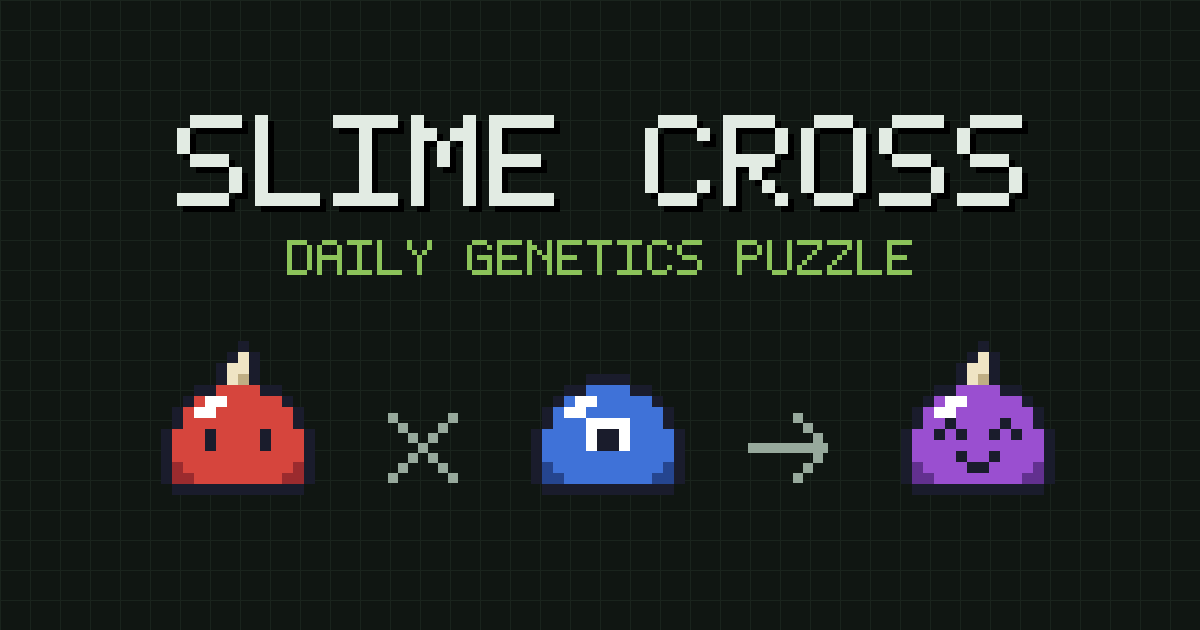
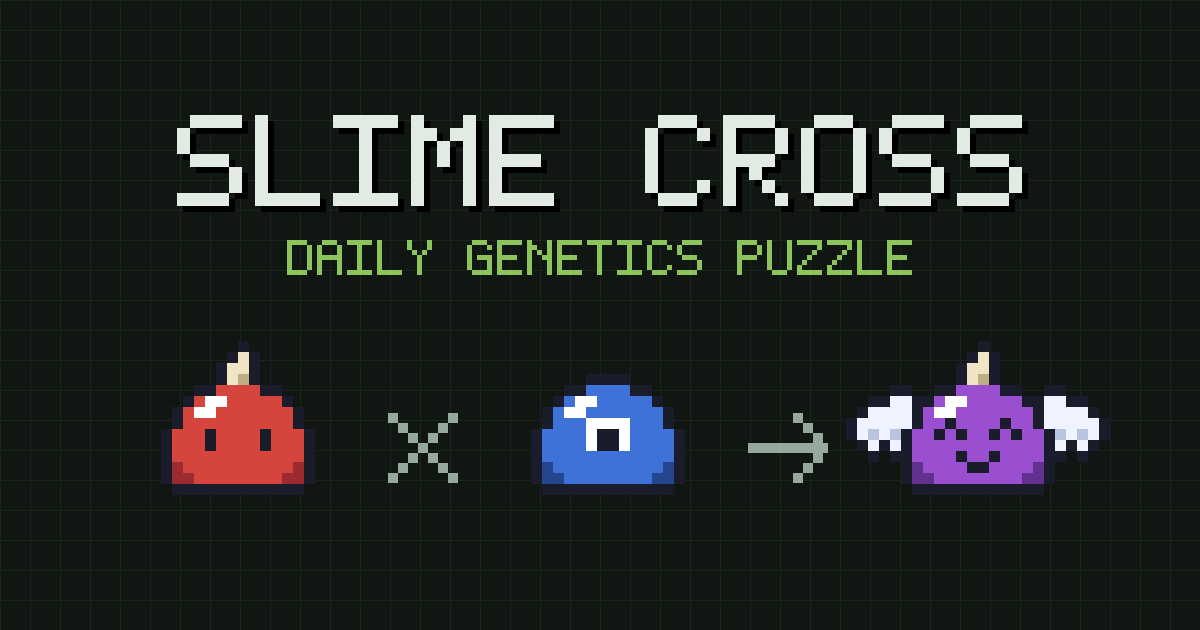
Imagem do link compartilhado: o roxo ganha asinhas

Changed region(s): [[0.6783, 0.6032, 0.7708, 0.7238], [0.8633, 0.6032, 0.925, 0.7238]]

diff --git a/index.html b/index.html
@@ -11,10 +11,10 @@
 <meta property="og:site_name" content="Slime Cross">
 <meta property="og:title" content="Slime Cross">
 <meta property="og:description" content="A daily genetics puzzle: breed slimes with hidden genes until the target hatches.">
-<meta property="og:image" content="https://slimecross.com/og.png">
+<meta property="og:image" content="https://slimecross.com/og.png?v=2">
 <meta property="og:image:width" content="1200">
 <meta property="og:image:height" content="630">
-<meta property="og:image:alt" content="Slime Cross: a red slime crossed with a blue slime hatches a purple one">
+<meta property="og:image:alt" content="Slime Cross: a red slime crossed with a blue slime hatches a purple one with wings">
 <meta name="twitter:card" content="summary_large_image">
 <script>
 /* Mudança de endereço: quem abre pelo github.io ou pelo www vai pro slimecross.com levando o que está salvo no navegador
